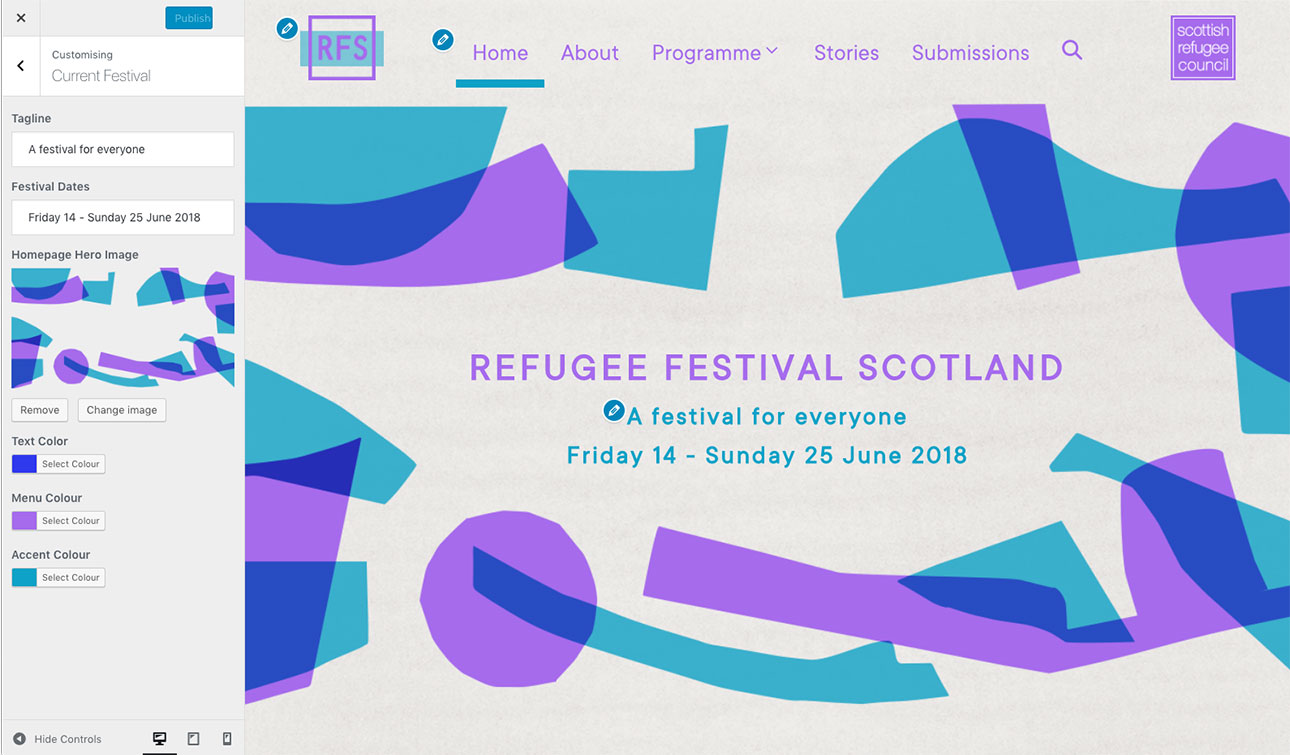
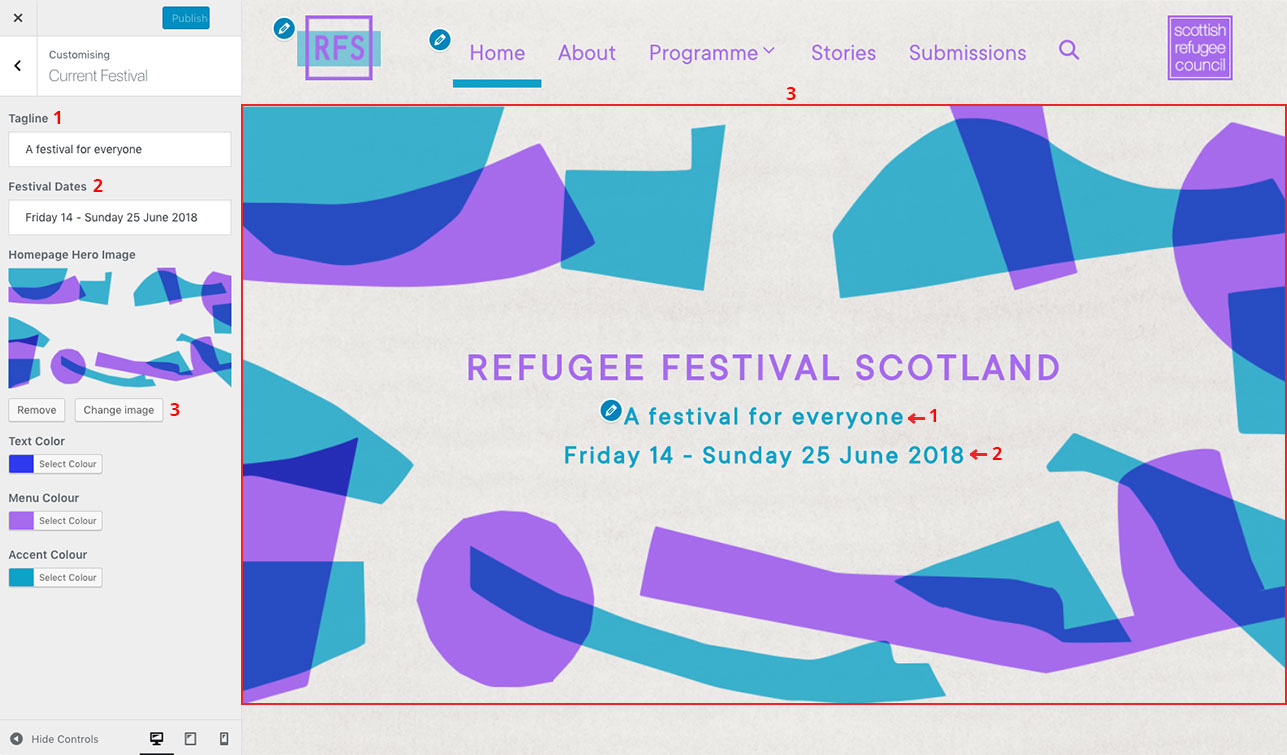
Added Customise website to match festival design

diff --git a/documentation/customise-website-to-match-festival-design.md b/documentation/customise-website-to-match-festival-design.md
@@ -1,17 +1,82 @@
 # How to customise the website to match the current festival design
 
-The website's colour scheme and homepage hero image can be changed to match those of the upcoming festival.
+The Customizer allows us to change the website's colour scheme and homepage hero image to match those of the upcoming festival.
+
+To do so, you will need to login to the Dashboard and, from the left-hand side menu, click on **Appearance > Customizer**.
+
+The following screen will show:
 
 ![Customizer - Current Festival tab](assets/customizer-current-festival.jpg)
 *Illustration 1: Customizer - Current Festival tab.*
 
 ## Edit the festival dates and tagline
 
+The festival dates and tagline are shown in the homepage, in the centre of the hero image.
+
+They can be edited from the corresponding fields on the customiser sidebar. They are shown in *Illustration 1* as a red **1** and **2**.
+
+These two fields will always be shown in the centre of the hero image.
+
+Remember to click the **Publish** button, at the top of the screen, to save the changes.
+
 ## Change the hero image
+
+The hero image is also shown in the website homepage and takes up most of the space when the site is initially loaded.
+
+It can be changed, from the Customizer's Current Festival tab, by clicking the **Change Image** button, shown as a red **3** in *Illustration 1*.
+
+The recommended hero image minimum width and height is 1200 pixels by 600 pixels.
+
+It is recommended that the hero image has enough empty space in the middle to make it easy for viewers to read the festival dates and tagline.
+
+Please be aware that the hero image will always keep its proportions and show centered, both vertically and horizontally. Because of this, how much of it is displayed will depend on the width of the screen the viewer uses to access the website. See the image below for an illustration of this:
+
+![Desktop vs Mobile view](assets/desktop-vs-mobile-view.jpg)
+*Illustration 2: Hero image comparison from a desktop and a mobile device.*
 
 ## Change the colour scheme
 
-These changes will apply to the whole website except the previous year's programme pages, if they have been given their own colour scheme. Please refer to [How to move a programme page to the submenu](archive-a-programme-page.md) for further information.
+The 3 main colours used in the website can also be changed to match the current festival colour scheme.
+
+This can be done form the Customizer's Current Festival tab.
+
+> Please note that you will need to have the new colours **HEX code** in order to do this. If you are not sure what the colours' codes are, please request them from the graphic designer.
+
+Please note that, when choosing colours, it is important that the contrast between the background colour and the text colour is still enough to allow for the content to be read with ease. If you have doubts about this, we recommend to double check with an online tool such as the [Colour Contrast Ratio Analyser](http://juicystudio.com/services/luminositycontrastratio.php).
+
+The 3 main colours have been named **Text Color**, **Menu Color** and **Accent Color**.
+
+### Text Color
+
+The Text Color is applied to all body and footer text as well as the following:
+
+* all page and blog titles, except for the homepage,
+* the programme page filter fields background,
+* some of the text (such as event type, ticket price and organiser names) in the single event page, and
+* the "Subscribe to Newsletter" widget title, at the bottom of all pages.
+
+### Menu Color
+
+The Menu Color is applied to all navigation menu items, as well as the following:
+
+* all buttons,
+* the homepage site title,
+* the single event's main body text,
+* the event's social media links,
+* the "Subscribe to Newsletter" tagline, at the bottom of all pages.
+
+### Accent Color
+
+The Accent Color is used to:
+
+* underline the current page name in the navigation menu,
+* underline each event title in the programme page,
+* also in the programme page, to separate the filter from the events list,
+* for the Refugee Festival Scotland social media links at the bottom of each page,
+* as the background colour of the "Subscribe to Newsletter" name and email fields, and
+* in the single event page, to display the event's address.
+
+> These changes will apply to the whole website except the previous year's programme pages, if they have been given their own colour scheme. Please refer to [How to move a programme page to the submenu](archive-a-programme-page.md) for further information.
 
 
 [<< Back to main documentation page.](README.MD)

diff --git a/documentation/README.MD b/documentation/README.MD
@@ -1,4 +1,6 @@
-# Refugee Festival Scotland website
+# How-to Guide for the Refugee Festival Scotland website
+
+## Documentation content
 
 1. [General Information](#general-information).
 2. [Dashboard](#dashboard).
